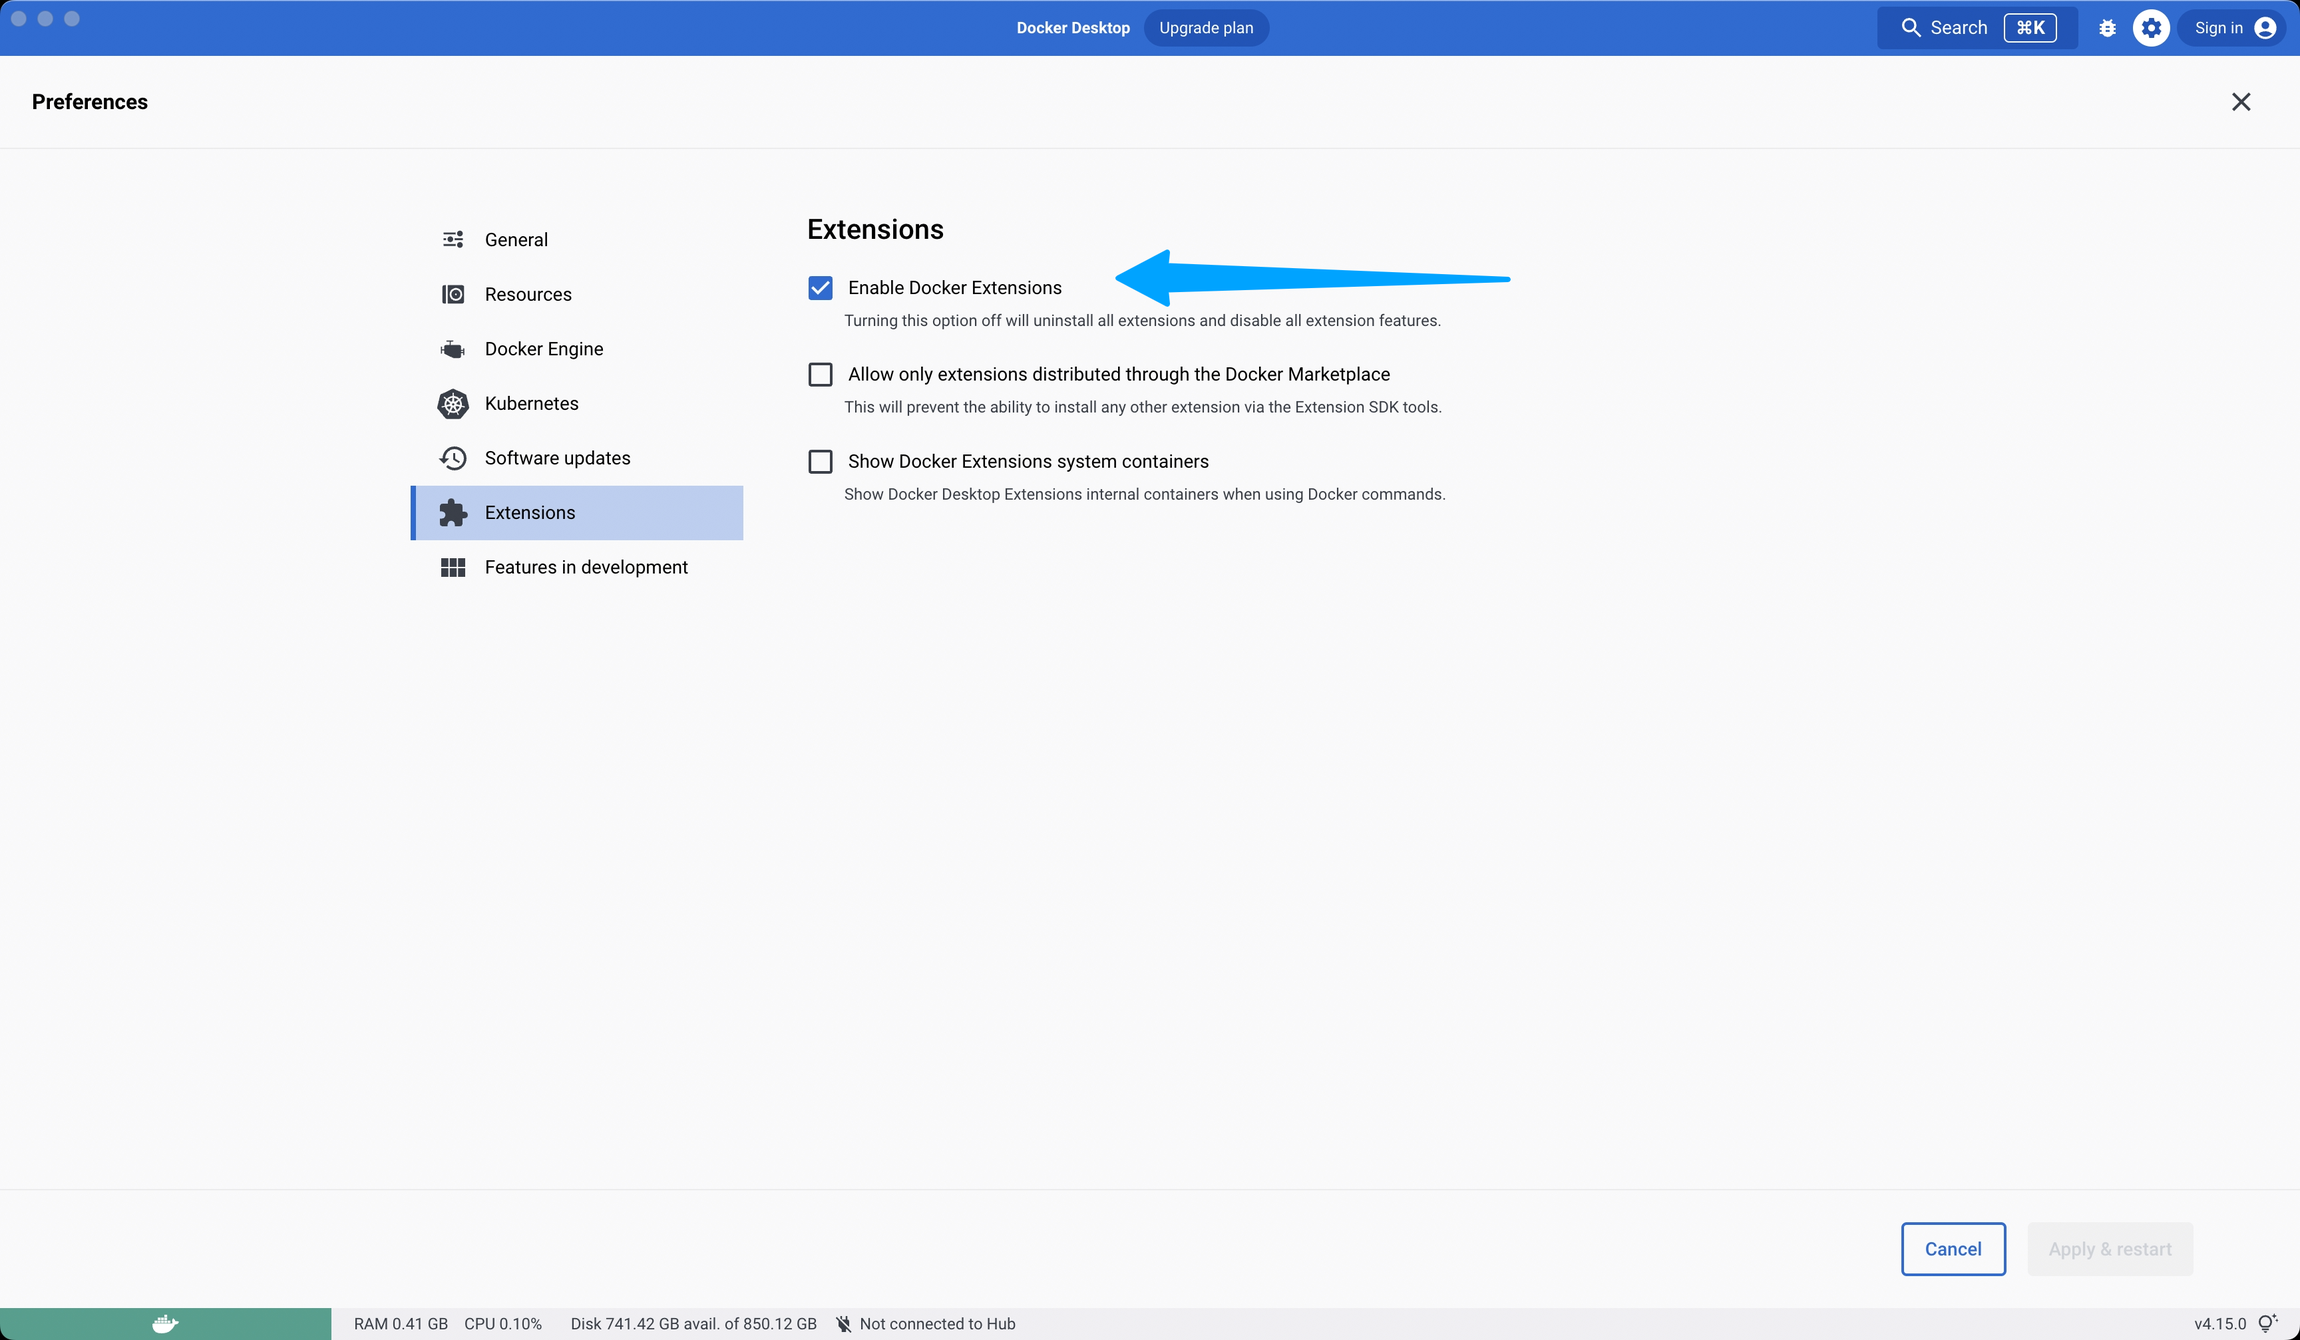
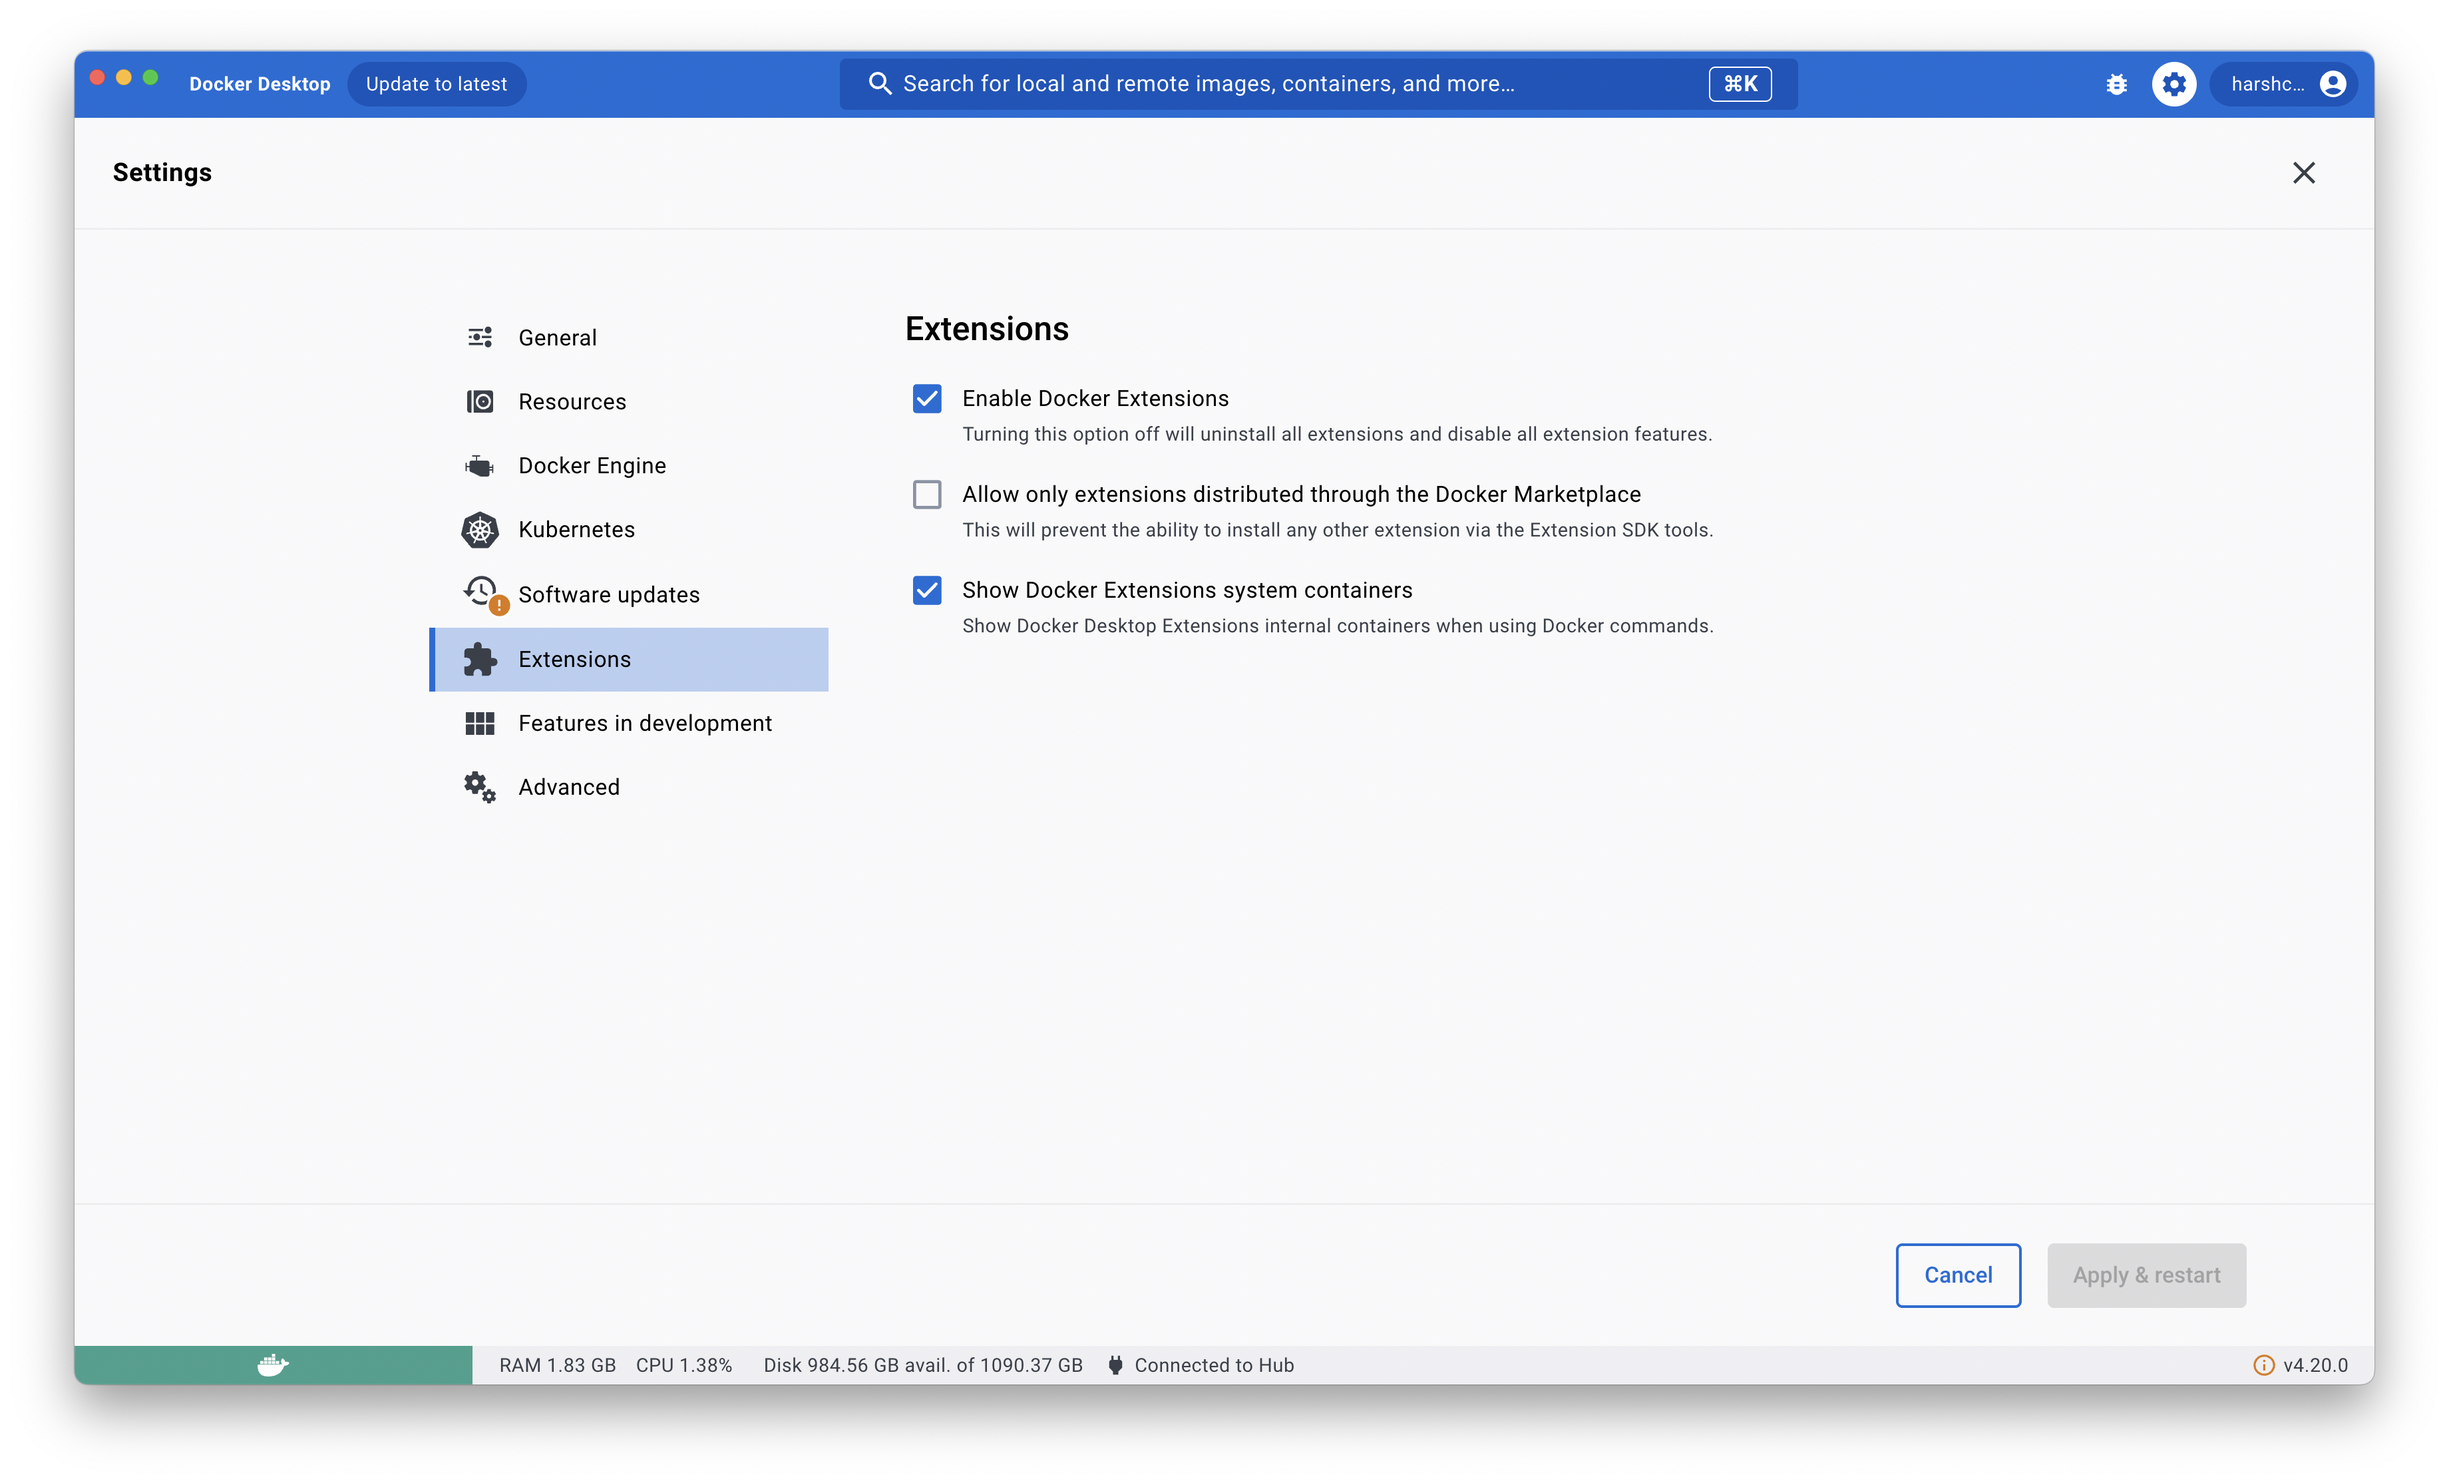
improve docker extension docs

diff --git a/content/en/user-guide/tools/localstack-docker-extension/index.md b/content/en/user-guide/tools/localstack-docker-extension/index.md
@@ -8,50 +8,58 @@ aliases:
   - /user-guide/tools/docker-desktop-extension/
 ---
 
+## Introduction
+
 The LocalStack Extension for Docker Desktop enables developers working with LocalStack to operate their LocalStack container via Docker Desktop, including checking service status, container logs, and configuring profiles. To install the LocalStack Extension for Docker Desktop, you need to have [Docker Desktop installed on your machine](https://www.docker.com/products/docker-desktop).
 
-<img src="localstack-docker-extension.png" alt="LocalStack Extension for Docker Desktop" title="LocalStack Extension for Docker Desktop" width="900" />
+<img src="localstack-docker-extension.png" alt="LocalStack Extension for Docker Desktop" title="LocalStack Extension for Docker Desktop" width="800px"   />
 
 ## Installation
 
-To utilize LocalStack's Docker Extension, it is necessary to have a recent version of Docker Desktop (v4.8 or higher) installed on the local machine. To enable the extension, access the **Preferences** tab and select the **Enable Docker Extensions** option within the **Extensions** tab.
+To utilize LocalStack's Docker Extension, it is necessary to have a recent version of Docker Desktop (v4.8 or higher) installed on the local machine. To enable the extension, access the **Extensions** tab and select the **Enable Docker Extensions** and **Show Docker Extensions system containers** option within the **Extensions** tab.
 
-<img src="localstack-docker-extension-preferences.png" title="Enable Docker Extensions in the Preferences within the Extensions tab" width="900" />
+<img src="localstack-docker-extension-preferences.png" title="Enable Docker Extensions in the Preferences within the Extensions tab" width="800px"   />
 <br></br>
 
 The LocalStack Extension for Docker Desktop has been validated and can be accessed on the Extensions Marketplace. To begin using it, navigate to the **Extensions Marketplace**, search for **LocalStack**, and click the **Install** button to proceed with the installation.
 
-<img src="localstack-docker-extension-marketplace.png" title="Discover the LocalStack Extension on the Docker Desktop Marketplace and install it!" width="900" />
+<img src="localstack-docker-extension-marketplace.png" title="Discover the LocalStack Extension on the Docker Desktop Marketplace and install it!" width="800px"  />
 <br></br>
 
 An alternative method for installing the LocalStack's Extension for Docker Desktop is pulling the [public Docker image](https://hub.docker.com/r/localstack/localstack-docker-desktop) from Docker Hub and installing it!
 
 {{< command >}}
-$ docker extension install localstack/localstack-docker-desktop:0.3.1
+$ docker extension install localstack/localstack-docker-desktop:0.5.3
 {{< /command >}}
 
 After installation, you can access the LocalStack Extension for Docker Desktop from the **Extensions** tab. Upon the initial launch of the extension, a prompt to select a mount point for the LocalStack container will appear. Select your username from the drop-down menu. Furthermore, you can modify this setting later by navigating to the **Configurations** tab and choosing a different mount point.
 
-<img src="localstack-docker-extension-mount-point.png" title="Select the mount point upon the launch of LocalStack's Docker extension" width="900" />
+<img src="localstack-docker-extension-mount-point.png" title="Select the mount point upon the launch of LocalStack's Docker extension" width="800px"  />
 
 ## Features
 
 LocalStack's Docker Extension helps users to manage their LocalStack container with a simple and intuitive user interface through Docker Desktop. The extension includes container management, configuration profile management, service status, and container logs!
 
-### Control LocalStack
+### Container management
 
 You can start, stop, and restart LocalStack from the Docker Desktop. You can also see the current status of your LocalStack container and navigate to LocalStack Web Application.
 
-<img src="localstack-docker-extension-start.png" title="Start and Stop your LocalStack container with a single click of a button with LocalStack's extension" width="900" />
+<img src="localstack-docker-extension-start.png" title="Start and Stop your LocalStack container with a single click of a button with LocalStack's extension" width="800"  />
 
-### LocalStack insights
+### Container logs
 
 You can see the log information of the LocalStack container and all the available services and their status on the service page.
 
-<img src="localstack-docker-extension-logs.png" title="Check the logs of your running LocalStack container through LocalStack's Docker extension" width="900" />
+<img src="localstack-docker-extension-logs.png" title="Check the logs of your running LocalStack container through LocalStack's Docker extension" width="800px"  />
 
-### LocalStack configurations
+### Configuration management
 
 You can manage and use your profiles via configurations and create new configurations for your LocalStack container.
 
-<img src="localstack-docker-extension-configuration-profile.png" title="Create your configuration profiles within LocalStack's Extension to affect the state of LocalStack" width="900" />
+<img src="localstack-docker-extension-configuration-profile.png" title="Create your configuration profiles within LocalStack's Extension to affect the state of LocalStack" width="800px" />
+
+## Configure an Auth Token
+
+To configure an Auth Token for the LocalStack Docker Extension, you need to create a new configuration profile. Navigate to the **Configurations** tab and click the **New +** button. Enter the configuration name and add the `LOCALSTACK_AUTH_TOKEN` environment variable with the desired value.
+
+To start the LocalStack Pro container with the Auth Token, select the configuration profile from the drop-down menu and click the **Start** button.
